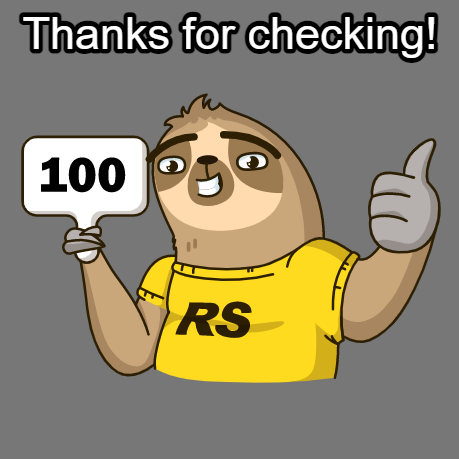
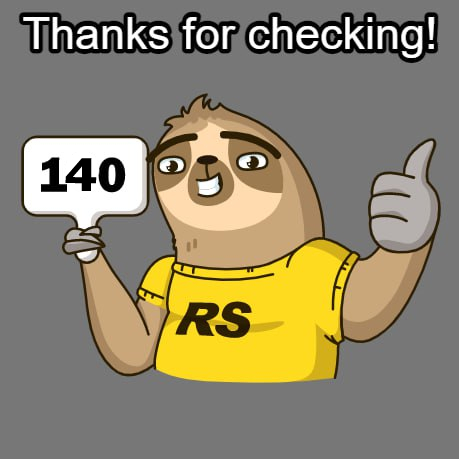
refactor: change position header, change padding and add font-family label__input, change image 7.png (Sat, March 11, 2023 2:43:12 PM)

diff --git a/cssBayan/index.html b/cssBayan/index.html
@@ -16,7 +16,7 @@
         </header>
         <div class="accordion">
             <div class="item">
-                <input class="item__input" id="item-1" type="radio" name="items">
+                <input class="item__input" id="item-1" type="radio" name="items" checked>
                 <label class="label__input" for="item-1">Hi, how are you?<span class="item__icon"></span></label>
                 <div class="item__content">
                     <label class="label__img" for="item-1">

diff --git a/cssBayan/assets/css/style.css b/cssBayan/assets/css/style.css
@@ -16,7 +16,8 @@ body {
 }
 
 .header {
-  text-align: center;
+  display: flex;
+  padding: 1rem 0rem;
 }
 
 .title {
@@ -41,8 +42,9 @@ body {
   display: flex;
   justify-content: space-between;
   align-items: center;
-  padding: 0.8rem 1rem;
+  padding: 0.5rem 0rem;
 
+  font-family: Arial, Helvetica, sans-serif;
   font-size: 1.5rem;
   border-bottom: 0.05rem solid rgba(0, 0, 0, 0.5);
 }
